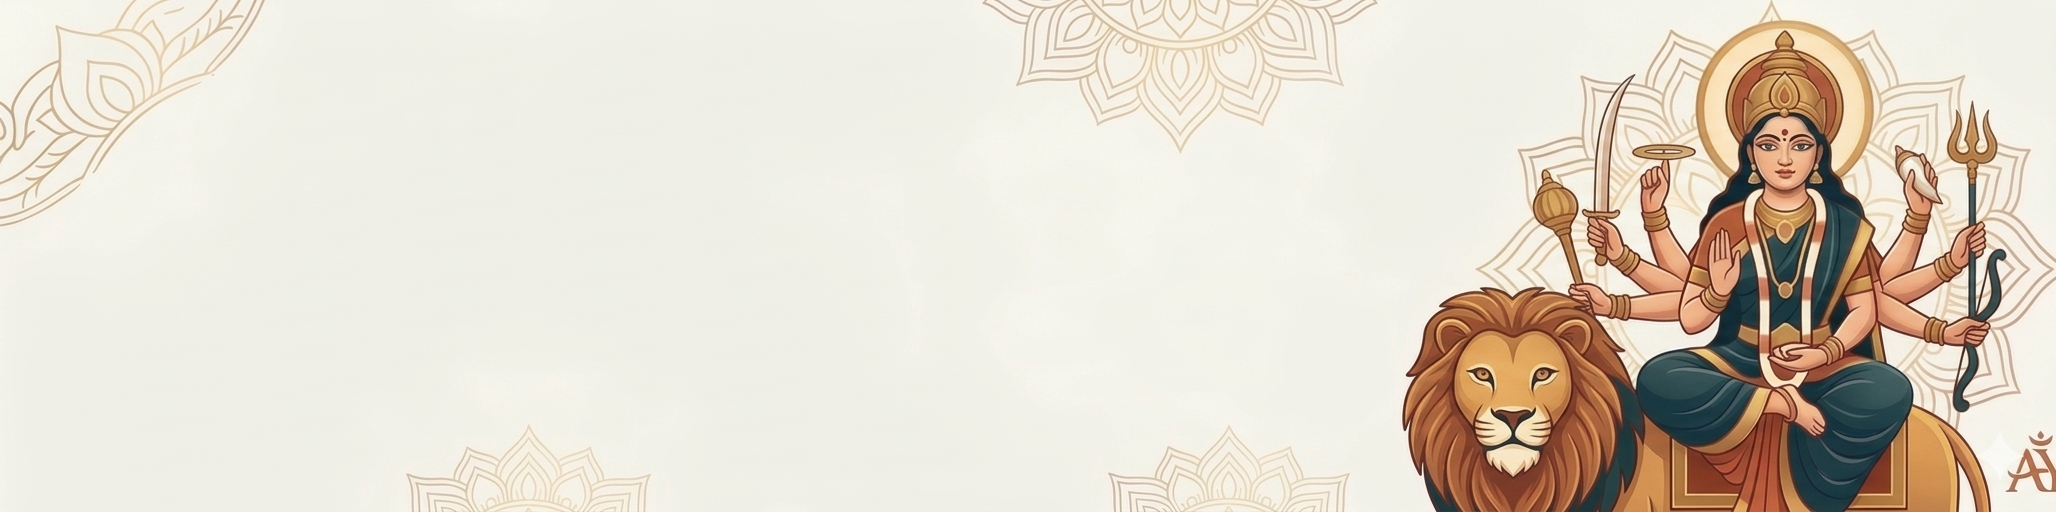
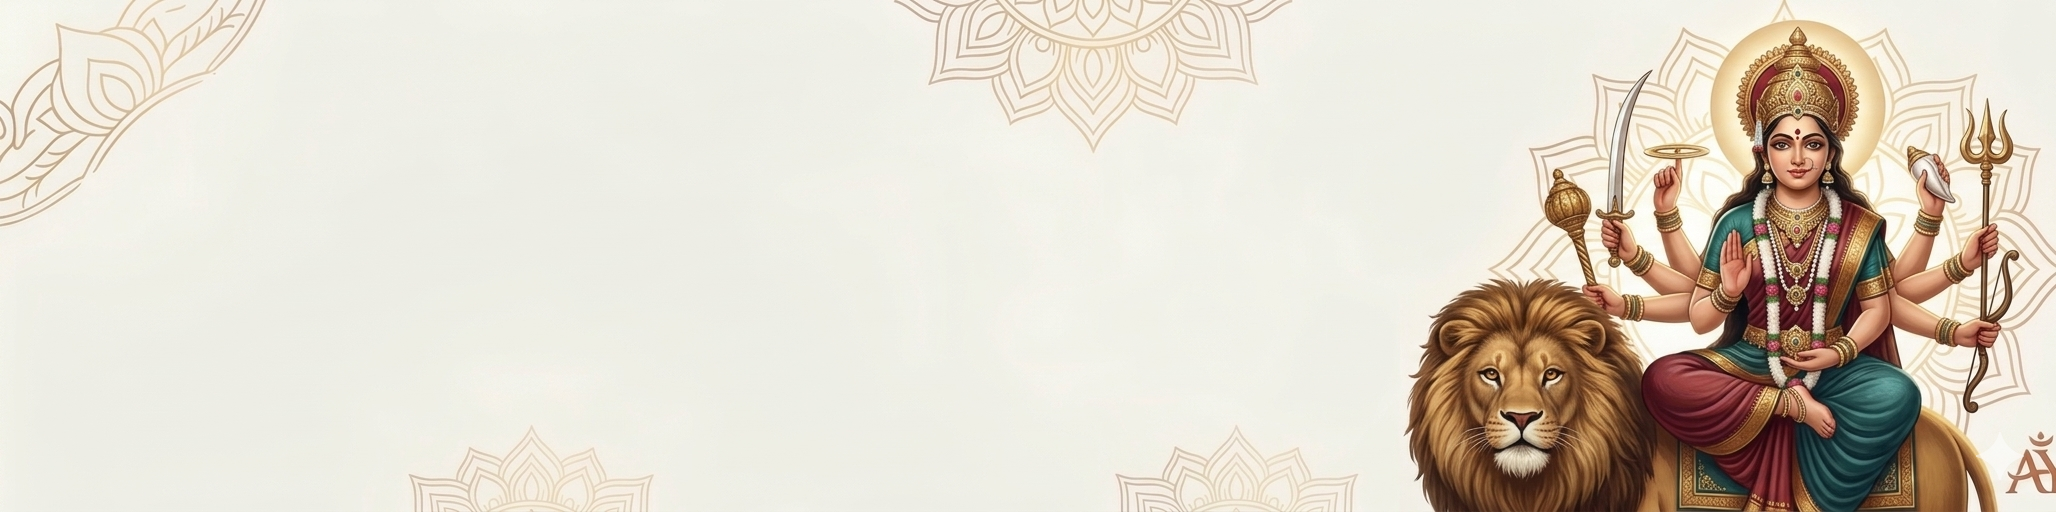
feat(frontend): update DSS section copy, typography and background image
- Replace bullet list with concise tagline + body paragraph
- Tagline "Transform yourself — just 30 minutes a day." at 1.6rem Lora/copper
- Body text increased to 1.2rem for better readability
- Updated dss_panel.png with revised background illustration

diff --git a/frontend/css/dss-shibir.css b/frontend/css/dss-shibir.css
@@ -88,44 +88,31 @@
 }
 
 
-/* ─── Benefits List ──────────────────────────────────────────────────────── */
+/* ─── Body Text ──────────────────────────────────────────────────────────── */
 
-.dss-benefits {
-    list-style: none;
-    padding: 0;
-    margin: 0 0 2.5rem 0;
-    display: flex;
-    flex-direction: column;
-    gap: 1rem;
+/* Bold tagline — the 30-minute hook */
+.dss-tagline {
+    font-family: 'Lora', serif;
+    font-size: 1.6rem;
+    font-weight: 600;
+    line-height: 1.4;
+    color: #B87333;
+    margin: 0 0 1.1rem 0;
     position: relative;
     z-index: 1;
+    animation: dssFadeUp 0.6s ease-out 0.35s both;
 }
 
-.dss-benefit {
-    display: flex;
-    align-items: flex-start;
-    gap: 0.75rem;
-    animation: dssFadeUp 0.6s ease-out both;
-}
-
-.dss-benefit:nth-child(1) { animation-delay: 0.35s; }
-.dss-benefit:nth-child(2) { animation-delay: 0.45s; }
-.dss-benefit:nth-child(3) { animation-delay: 0.55s; }
-.dss-benefit:nth-child(4) { animation-delay: 0.65s; }
-
-.dss-diamond {
-    color: #B87333;
-    font-size: 0.8rem;
-    flex-shrink: 0;
-    margin-top: 0.3em;
-    line-height: 1;
-}
-
-.dss-benefit > span:last-child {
+/* Concise body paragraph */
+.dss-body {
     font-family: 'Inter', sans-serif;
-    font-size: 0.925rem;
-    line-height: 1.65;
+    font-size: 1.2rem;
+    line-height: 1.75;
     color: rgba(44, 21, 5, 0.72);
+    margin: 0 0 2.5rem 0;
+    position: relative;
+    z-index: 1;
+    animation: dssFadeUp 0.6s ease-out 0.5s both;
 }
 
 
@@ -214,8 +201,12 @@
         font-size: 1.9rem;
     }
 
-    .dss-benefit > span:last-child {
-        font-size: 0.875rem;
+    .dss-tagline {
+        font-size: 1.15rem;
+    }
+
+    .dss-body {
+        font-size: 0.95rem;
     }
 
     .dss-kicker {

diff --git a/frontend/components/dss-shibir.html b/frontend/components/dss-shibir.html
@@ -13,24 +13,9 @@
 
         <div class="dss-rule"></div>
 
-        <ul class="dss-benefits">
-            <li class="dss-benefit">
-                <span class="dss-diamond">◈</span>
-                <span>Awaken your inner strength through a powerful Beej Mantra Sadhana</span>
-            </li>
-            <li class="dss-benefit">
-                <span class="dss-diamond">◈</span>
-                <span>Attract prosperity, success and eliminate financial struggles</span>
-            </li>
-            <li class="dss-benefit">
-                <span class="dss-diamond">◈</span>
-                <span>Improve memory, focus and decision-making ability</span>
-            </li>
-            <li class="dss-benefit">
-                <span class="dss-diamond">◈</span>
-                <span>Break free from stress and anxiety</span>
-            </li>
-        </ul>
+        <p class="dss-tagline">Transform yourself - just 30 minutes a day.</p>
+
+        <p class="dss-body">Awaken your inner strength, attract prosperity, and break free from stress. Thousands have walked this path. Now it's your turn.</p>
 
         <a href="https://events.antaryogfoundation.in/navaratri" class="dss-cta">
             Begin Your Journey &rarr;
